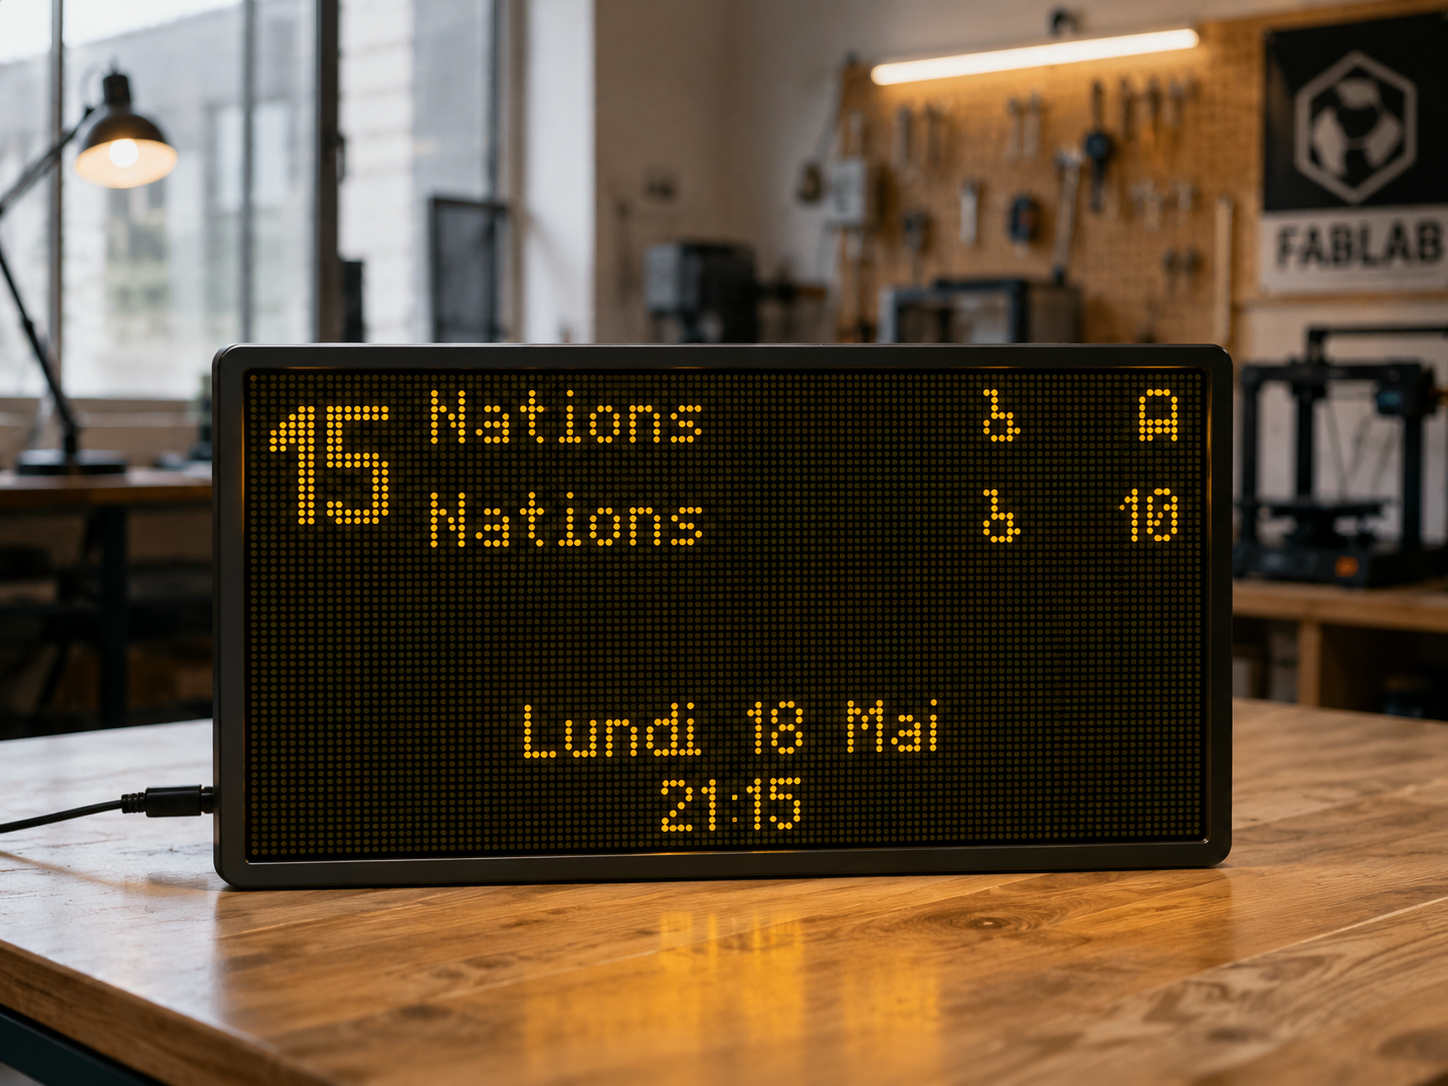
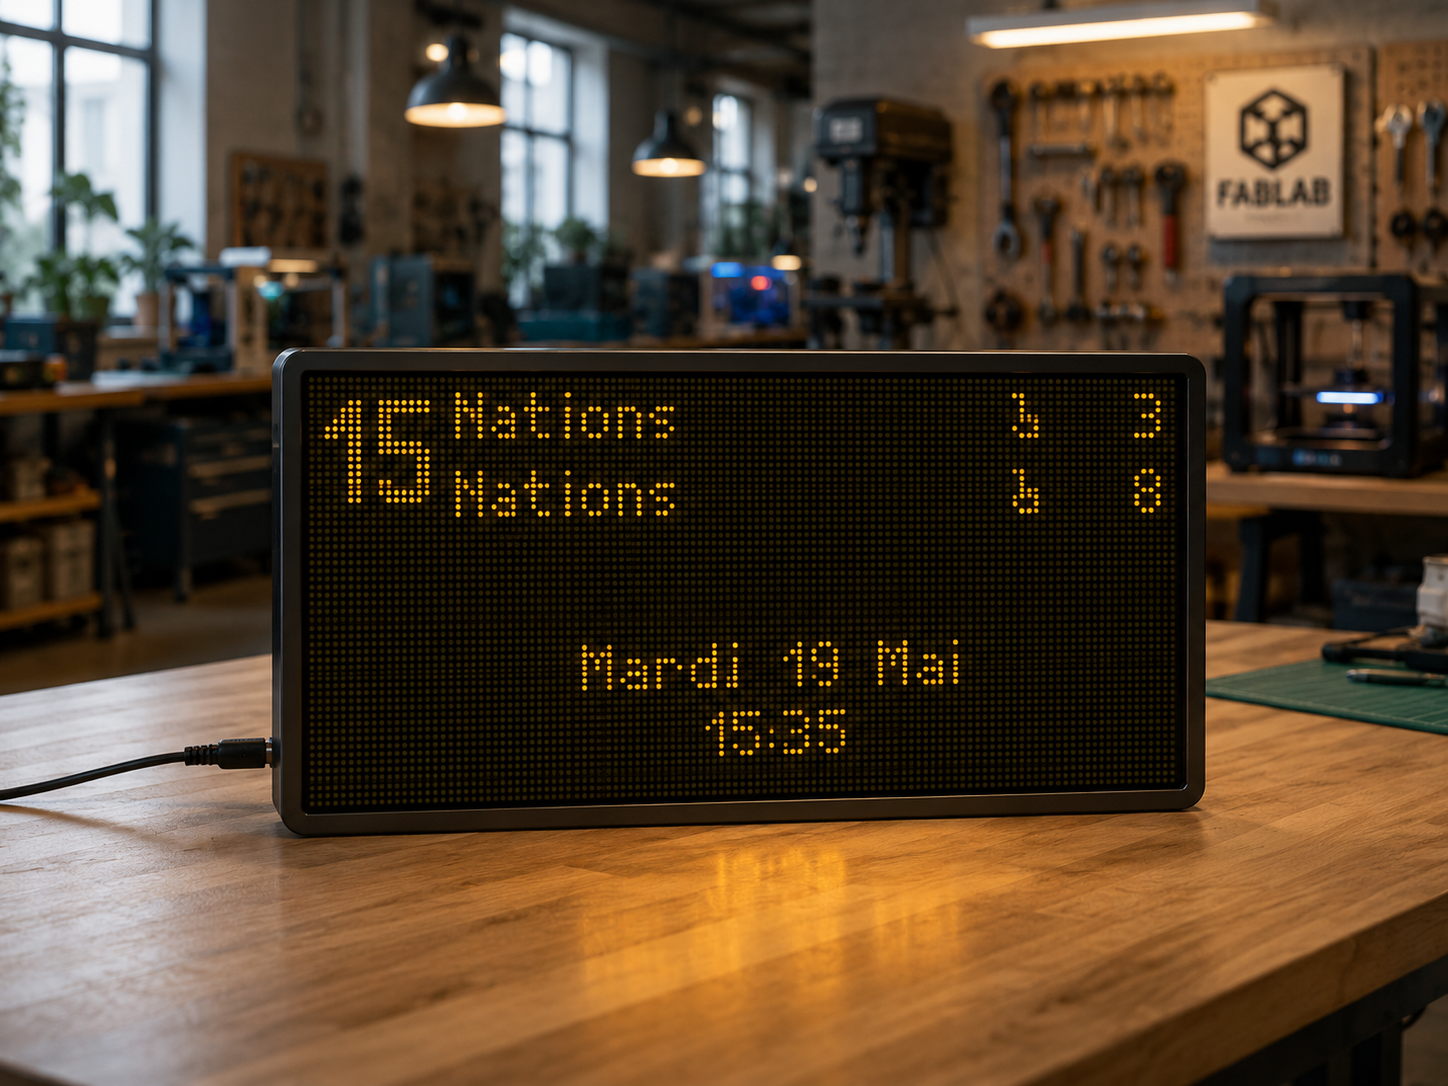
Add image

diff --git a/tpg_led.py b/tpg_led.py
@@ -25,7 +25,7 @@ API_URL   = ("https://transport.opendata.ch/v1/stationboard"
 # ─── SIMULATION (pour tests sans réseau) ────────────────────────────────────
 # Mettre SIMULATE = True pour activer les données fictives
 # DEP1 et DEP2 : minutes restantes (0 = tram imminent), delay = retard en minutes
-SIMULATE = True
+SIMULATE = False
 SIM_DEPS = [
     {"mins": 17, "delay": 0, "line": "14", "dest": "Bernex-Vailly"},
     {"mins": 35, "delay": 0, "line": "14", "dest": "Bernex-Vailly"},